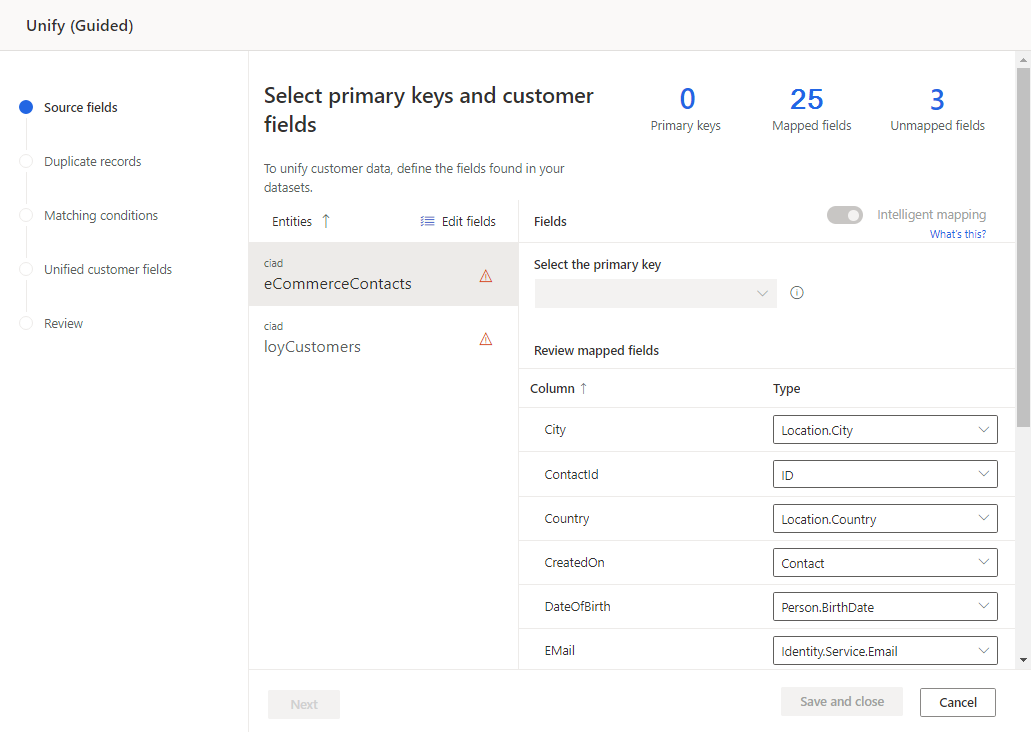
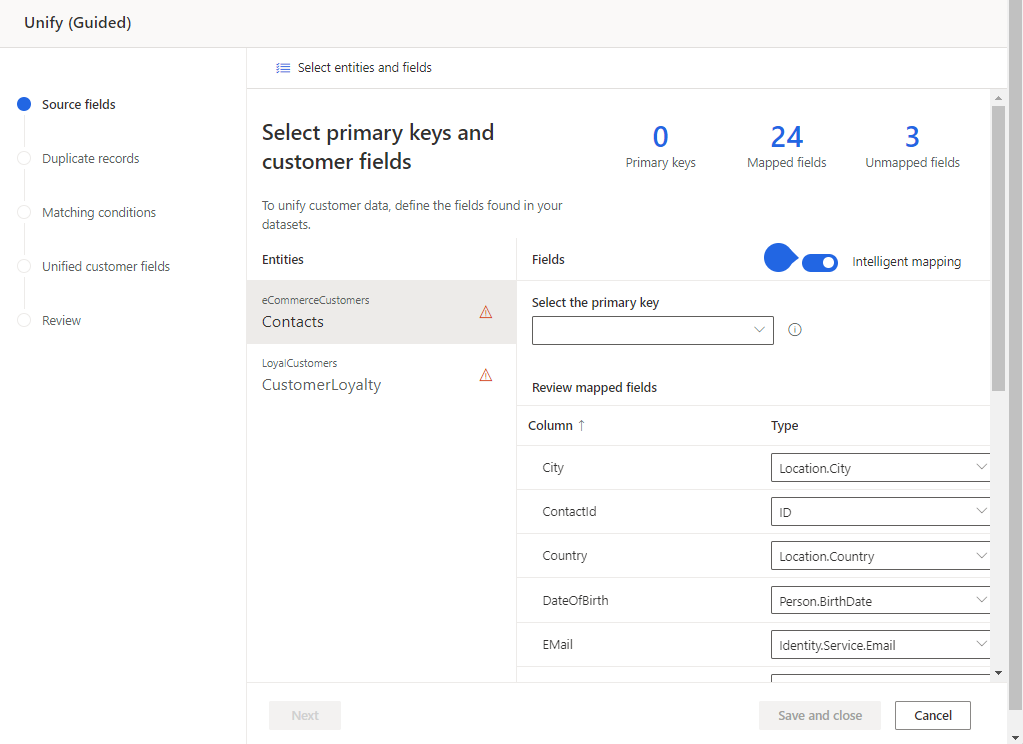
Screenshot updates

diff --git a/ci-docs/audience-insights/map-entities.md b/ci-docs/audience-insights/map-entities.md
@@ -1,12 +1,12 @@
 ---
 title: "Select source fields for data unification"
 description: "The first step in the unification process is selecting entities, attributes, primary keys, and semantic types to map data to the unified customer profile."
-ms.date: 03/08/2022
+ms.date: 04/08/2022
 
 ms.subservice: audience-insights
 ms.topic: tutorial
 author: v-wendysmith
-ms.author: v-wendysmith
+ms.author: mukeshpo
 ms.reviewer: v-wendysmith
 manager: shellyha
 searchScope: 
@@ -19,13 +19,15 @@ searchScope:
 
 The first step in customer or account unification is selecting the entities and attributes within your datasets that you want to unify. Select entities that contain customer-related details such as name, address, and email.
 
-## Select entities
+## Select entities and fields
 
 1. Go to **Data** > **Unify**.
 
 1. Select **Guide me**.
 
-1. Select **Select entities**. The **Edit fields** pane displays.
+   :::image type="content" source="media/m3_unify_land.png" alt-text="Screenshot of unify landing page with Guide me highlighted.":::
+
+1. Select **Select entities and fields**. The **Select entities and fields** pane displays.
 
 1. Select the **Entities** to combine into a customer or account profile.
 
@@ -33,7 +35,7 @@ The first step in customer or account unification is selecting the entities and 
 
    :::image type="content" source="media/m3_select_entities.png" alt-text="Screenshot of selected entities and attributes.":::
 
-   In this example, we're adding the **eCommerceContacts** and **loyCustomers** entities. By choosing these entities, you can derive insights on which of the online business customers are loyalty program members.
+   In this example, we're adding the **Contacts** and **CustomerLoyalty** entities. By choosing these entities, you can derive insights on which of the online business customers are loyalty program members.
 
 1. Select **Apply** to confirm your selections. The selected entities and attributes display.
 

diff --git a/ci-docs/audience-insights/match-entities.md b/ci-docs/audience-insights/match-entities.md
@@ -1,12 +1,12 @@
 ---
 title: "Match entities for data unification"
 description: "Match entities to create unified customer profiles."
-ms.date: 03/09/2022
+ms.date: 04/07/2022
 
 ms.subservice: audience-insights
 ms.topic: tutorial
 author: v-wendysmith
-ms.author: v-wendysmith
+ms.author: mukeshpo
 ms.reviewer: v-wendysmith
 manager: shellyha
 searchScope: 
@@ -130,6 +130,8 @@ You can specify conditions that override the default match logic. There are four
 
 1. Select **Custom**.
 
+   :::image type="content" source="media/m3_match_custom.png" alt-text="Custom button":::
+
 1. Choose the custom match option from the **Custom type** dropdown and select **Download template**. You need a separate template for each match option.
 
 1. Open the downloaded template file and fill in the details. The template contains fields to specify the entity and the entity primary key values to be used in the custom match. For example, if you want primary key *12345* from *Sales* entity to always match with primary key *34567* from *Contact* entity, fill in the template:
@@ -153,6 +155,8 @@ You can specify conditions that override the default match logic. There are four
 1. Applying the custom match depends on the match option you want to use.
 
    - For **Always match** or **Never match**, proceed to the next step.
-   - For **Custom bypass** or **Alias mapping**, select **Edit** on an existing match rule or create a new rule. In the Normalizations dropdown, choose the **Custom bypass** or **Alias mapping** option and select **Done**.
+   - For **Bypass** or **Alias mapping**, select **Edit** on an existing match rule or create a new rule. In the Normalizations dropdown, choose the **Custom bypass** or **Alias mapping** option and select **Done**.
+
+1. Select **Done** on the **Custom** pane to apply the custom match configuration.
 
 [!INCLUDE[footer-include](../includes/footer-banner.md)]

diff --git a/ci-docs/audience-insights/remove-duplicates.md b/ci-docs/audience-insights/remove-duplicates.md
@@ -30,7 +30,9 @@ If you enriched entities on the data source level to help improve your unificati
 
 ## Define deduplication on a match entity
 
-1. On the Duplicate records page, identify an entity and select **Add rule** to define the deduplication rules.
+1. On the **Duplicate records** page, select an entity and select **Add rule** to define the deduplication rules.
+
+   :::image type="content" source="media/m3_duplicates_showmore.png" alt-text="Screenshot of Duplicate records pages with Show more highlighted":::
 
    1. In the **Create rule** pane, enter the following information:
       - **Select field**: Choose from the list of available fields from the entity that you want to check for duplicates. Choose fields that are likely unique for every single customer. For example, an email address, or the combination of name, city, and phone number.

diff --git a/ci-docs/audience-insights/merge-entities.md b/ci-docs/audience-insights/merge-entities.md
@@ -1,12 +1,12 @@
 ---
 title: "Unify customer or account fields"
 description: "Merge entities to create unified customer profiles."
-ms.date: 03/10/2022
+ms.date: 04/08/2022
 
 ms.subservice: audience-insights
 ms.topic: tutorial
 author: v-wendysmith
-ms.author: v-wendysmith
+ms.author: mukeshpo
 ms.reviewer: v-wendysmith
 manager: shellyha
 searchScope: 
